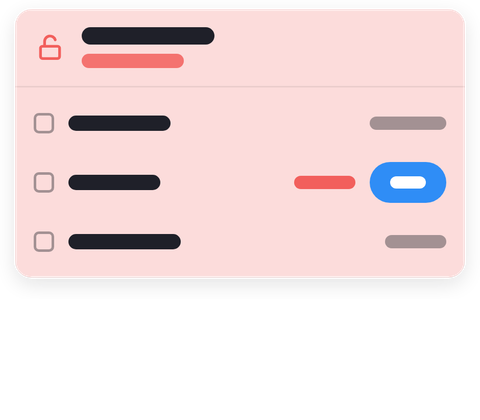
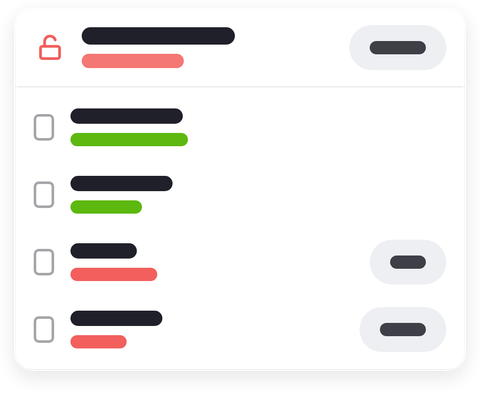
Locks and Doors: store previews show the current list design
Claude-Session: https://claude.ai/code/session_01FT2QPu8z8B3ukxUumMgR3z

diff --git a/dev/widget-previews.html b/dev/widget-previews.html
@@ -488,25 +488,30 @@ function timers(t, theme) {
 
 // Locks and Doors: the summary (a padlock, the title over the detail), then the list with a Lock button.
 function locks(t, theme) {
+  // The list open, as the README screenshot: no tint (the red tile is only for the closed summary), the summary's
+  // red padlock and Lock all, then each device's name over its state, green when secure and red when not, with grey
+  // Lock and Close pills.
   const RED = '#F25F5C';
   const tileBg = theme === 'dark' ? '#181920' : '#FFFFFF';
   const shadow = theme === 'dark' ? 'inset 0 2px 0 rgba(255,255,255,.06), 0 12px 40px rgba(0,0,0,.45)' : '0 12px 40px rgba(17,18,23,.12)';
   const muted = theme === 'dark' ? 'rgba(237,238,240,.45)' : 'rgba(31,32,41,.4)';
   const line = theme === 'dark' ? 'rgba(255,255,255,.08)' : 'rgba(31,32,41,.08)';
+  const btn = theme === 'dark' ? '#2E3039' : '#EEEFF2';
   const padlock = `<svg viewBox="0 0 24 24" width="64" height="64" fill="none" stroke="${RED}" stroke-width="2" stroke-linecap="round" stroke-linejoin="round"><path d="M6.5 11h11a1.5 1.5 0 0 1 1.5 1.5v6a1.5 1.5 0 0 1-1.5 1.5h-11A1.5 1.5 0 0 1 5 18.5v-6A1.5 1.5 0 0 1 6.5 11zM8 11V7.5a4 4 0 0 1 7.8-1.25"/></svg>`;
-  const row = ([w, sw, red, button]) => `<div style="height:116px;display:flex;align-items:center;gap:28px;padding:0 36px">
-      <div style="width:40px;height:40px;border-radius:10px;border:5px solid ${muted};box-sizing:border-box;flex-shrink:0"></div>
-      <div style="flex:1">${pill(w, 30, t.fg)}</div>
-      ${pill(sw, 26, red ? RED : muted)}
-      ${button ? `<div style="width:150px;height:80px;border-radius:40px;background:${BLUE};display:flex;align-items:center;justify-content:center">${pill(70, 24, '#FFFFFF')}</div>` : ''}
+  const button = w => `<div class="pill" style="height:88px;padding:0 40px;background:${btn};display:flex;align-items:center;flex-shrink:0">${pill(w, 26, t.fg, 'opacity:.85')}</div>`;
+  const row = ([w, sw, secure, action]) => `<div style="height:132px;display:flex;align-items:center;gap:32px;padding:0 36px">
+      <div style="width:40px;height:52px;border-radius:10px;border:5px solid ${muted};box-sizing:border-box;flex-shrink:0"></div>
+      <div style="flex:1;display:flex;flex-direction:column;gap:18px">${pill(w, 30, t.fg)}${pill(sw, 26, secure ? t.green : RED)}</div>
+      ${action ? button(action) : ''}
     </div>`;
-  return `<div style="width:880px;border-radius:32px;background:color-mix(in srgb, ${RED} 22%, ${tileBg});box-shadow:${shadow};overflow:hidden">
+  return `<div style="width:880px;border-radius:32px;background:${tileBg};box-shadow:${shadow};overflow:hidden">
     <div style="height:150px;display:flex;align-items:center;gap:30px;padding:0 36px">
       ${padlock}
-      <div style="flex:1;display:flex;flex-direction:column;gap:18px">${pill(260, 34, t.fg)}${pill(200, 28, RED, 'opacity:.85')}</div>
+      <div style="flex:1;display:flex;flex-direction:column;gap:18px">${pill(300, 34, t.fg)}${pill(200, 28, RED, 'opacity:.85')}</div>
+      ${button(110)}
     </div>
     <div style="border-top:3px solid ${line};padding:12px 0">
-      ${[[200, 150], [180, 120, true, true], [220, 120]].map(row).join('')}
+      ${[[220, 230, true], [200, 140, true], [130, 170, false, 70], [180, 110, false, 90]].map(row).join('')}
     </div>
   </div>`;
 }
